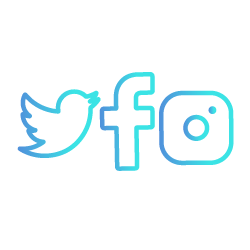
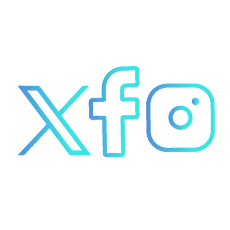
changes 29-8-23

diff --git a/src/components/pages/SolicitudResultado.js b/src/components/pages/SolicitudResultado.js
@@ -133,9 +133,10 @@ export default function SolicitudResultado({ resultado }) {
                 Podés volver a probar cuando la <b>regularices.</b>
               </p>
               <p className="pre-aprobado-text">
-                <b>WhatsApp:</b> 11 4563 0828 / 11 4563 9747
+                Para más información contactate al 08010-220-0570 o chateá con
+                nosotros.
               </p>
-              <p className="pre-aprobado-text">11 4563 8718 / 11 4563 2964</p>
+
               <div hidden>
                 <Link
                   to={
@@ -233,13 +234,11 @@ export default function SolicitudResultado({ resultado }) {
               <p className="pre-aprobado-label">
                 Tenemos un problema en nuestros servidores.
               </p>
+              <p className="pre-aprobado-text">Volvé a intentarlo.</p>
               <p className="pre-aprobado-text">
-                Volvé a intentarlo o escribinos por
+                Si necesitás ayuda contactate al 08010-220-0570 o chateá con
+                nosotros.
               </p>
-              <p className="pre-aprobado-text">
-                <b>WhatsApp:</b> 11 4563 0828 / 11 4563 9747{" "}
-              </p>
-              <p className="pre-aprobado-text"> 11 4563 2964 / 11 4563 8718 </p>
               <div className="pre-aprobado-links">
                 <div hidden>
                   <Link

diff --git a/src/components/Footer.js b/src/components/Footer.js
@@ -48,7 +48,7 @@ export default function Footer() {
                 className="social-link"
                 target="_blank"
               >
-                <FontAwesomeIcon icon={brands("twitter")} />
+                <FontAwesomeIcon icon={brands("x-twitter")} />
               </Link>
             </div>
             <div className="footer-mail">
@@ -209,17 +209,17 @@ export default function Footer() {
         <p style={{ textAlign: "center" }}>
           Desarrollado por{" "}
           <a
-            href="mailto:armendariz.ignacio@gmail.com"
-            style={{ textDecoration: "none" }}
-          >
-            Ignacio Armendariz
-          </a>{" "}
-          /{" "}
-          <a
             href="mailto:damiangarciaabreu@gmail.com"
             style={{ textDecoration: "none" }}
           >
             Damián García Abreu
+          </a>{" "}
+          /{" "}
+          <a
+            href="mailto:armendariz.ignacio@gmail.com"
+            style={{ textDecoration: "none" }}
+          >
+            Ignacio Armendariz
           </a>
           <br />
           Diseñado por{" "}

diff --git a/src/components/pages/Ayuda.js b/src/components/pages/Ayuda.js
@@ -57,12 +57,13 @@ export default function Ayuda() {
                           <div className="ayuda-subaccordion-text">
                             <p>
                               Tu préstamo podes obtenerlo con estos tres simples
-                              pasos.
+                              pasos:
                             </p>
                             <p>
-                              1 - Al ingresar en nuestra web, encontraras un
-                              botón de “Formulario” o en el menú “Solicitud
-                              Online”
+                              1 - Al ingresar a nuestra web, encontrarás un
+                              botón en la página principal o desde el menú
+                              "Solicitá tu préstamo" donde accedés al formulario
+                              de contacto.
                             </p>
                             <p>
                               2 - Completá el formulario con tus datos

diff --git a/src/components/pages/Nosotros.js b/src/components/pages/Nosotros.js
@@ -185,7 +185,7 @@ export default function Nosotros() {
               className="nosotros-box-item-img"
             />
             <p className="nosotros-box-item-desc">
-              +12.000 son los clientes que avalan nuestra seriedad y compromiso.
+              +15.000 son los clientes que avalan nuestra seriedad y compromiso.
             </p>
           </div>
           <div className="nosotros-box-item">
@@ -195,7 +195,7 @@ export default function Nosotros() {
               className="nosotros-box-item-img-3"
             />
             <p className="nosotros-box-item-desc">
-              +12.000 son las personas que nos siguen en redes.
+              +15.000 son las personas que nos siguen en redes.
               <br />
               <Link
                 to={"//maslinks.com/Credlap"}

diff --git a/src/components/pages/Contacto.js b/src/components/pages/Contacto.js
@@ -91,7 +91,7 @@ export default function Contacto() {
             target={"_blank"}
           >
             <FontAwesomeIcon
-              icon={brands("twitter")}
+              icon={brands("x-twitter")}
               className="contacto-btn-icon"
             />
             Twitter

diff --git a/src/components/pages/Contacto.css b/src/components/pages/Contacto.css
@@ -201,8 +201,8 @@
 }
 
 .contacto-btn.twitter {
-  background-color: #fff;
-  color: #45a0c9;
+  background-color: black;
+  color: white;
 }
 
 .contacto-btn.twitter:hover {
